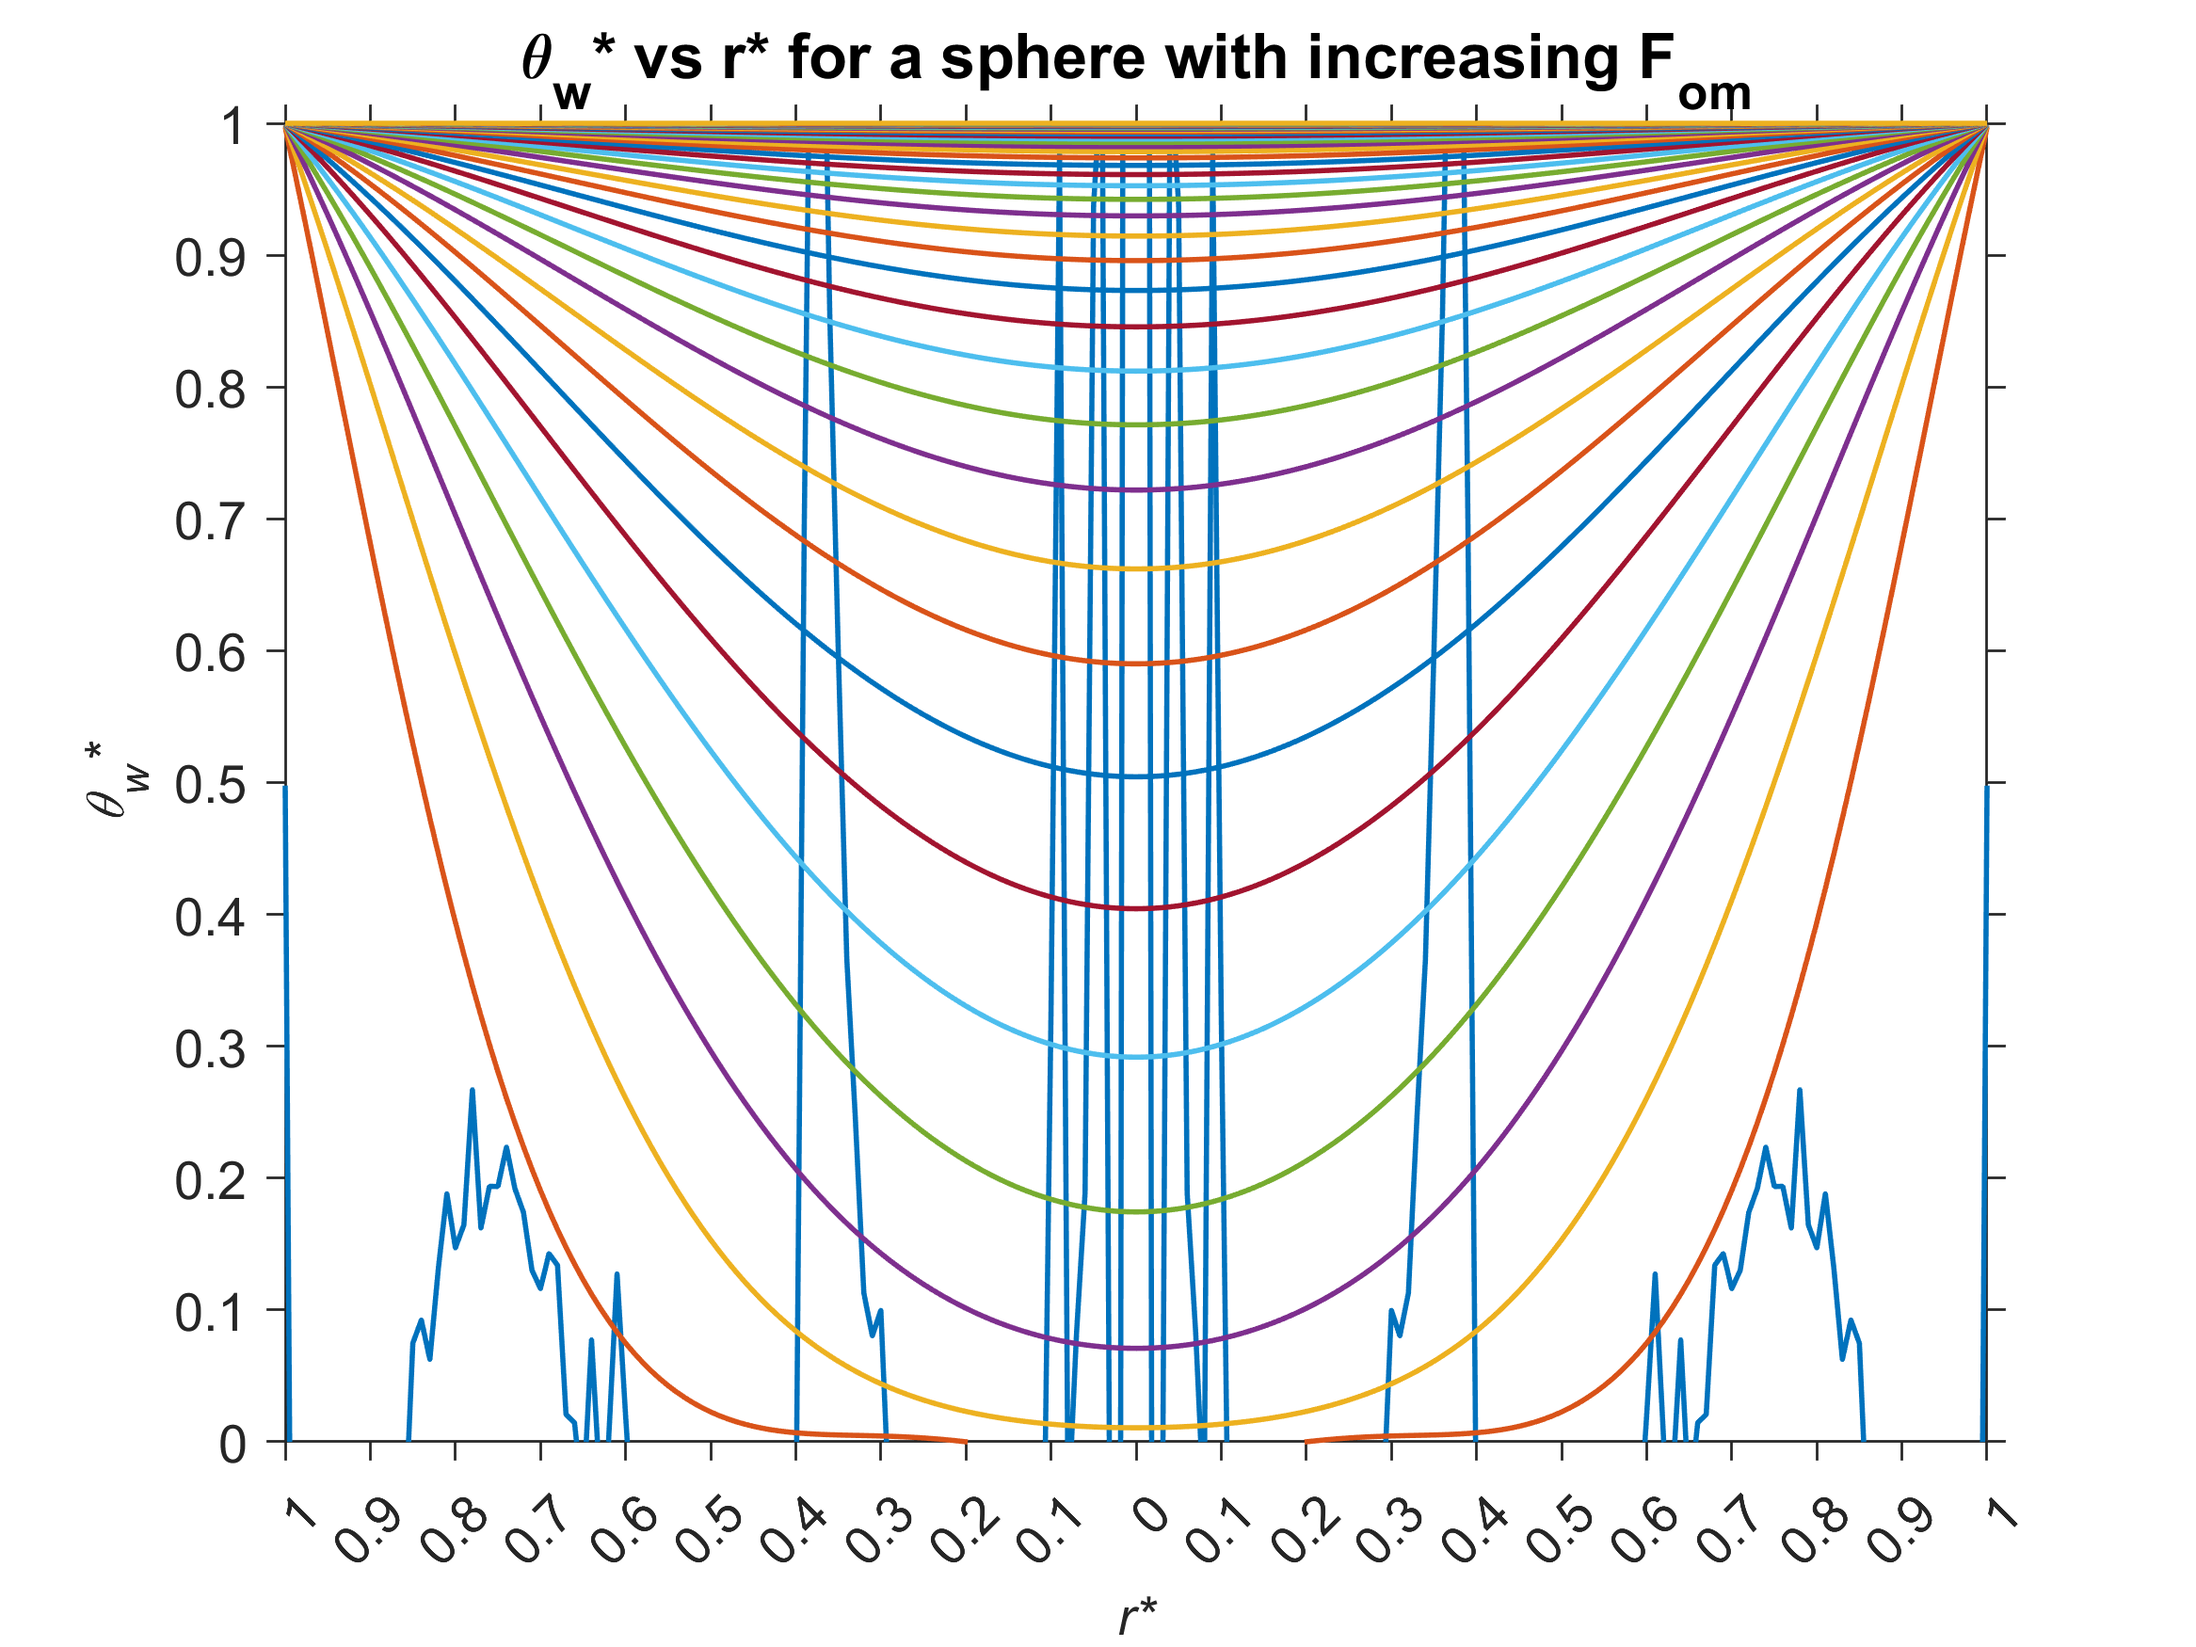
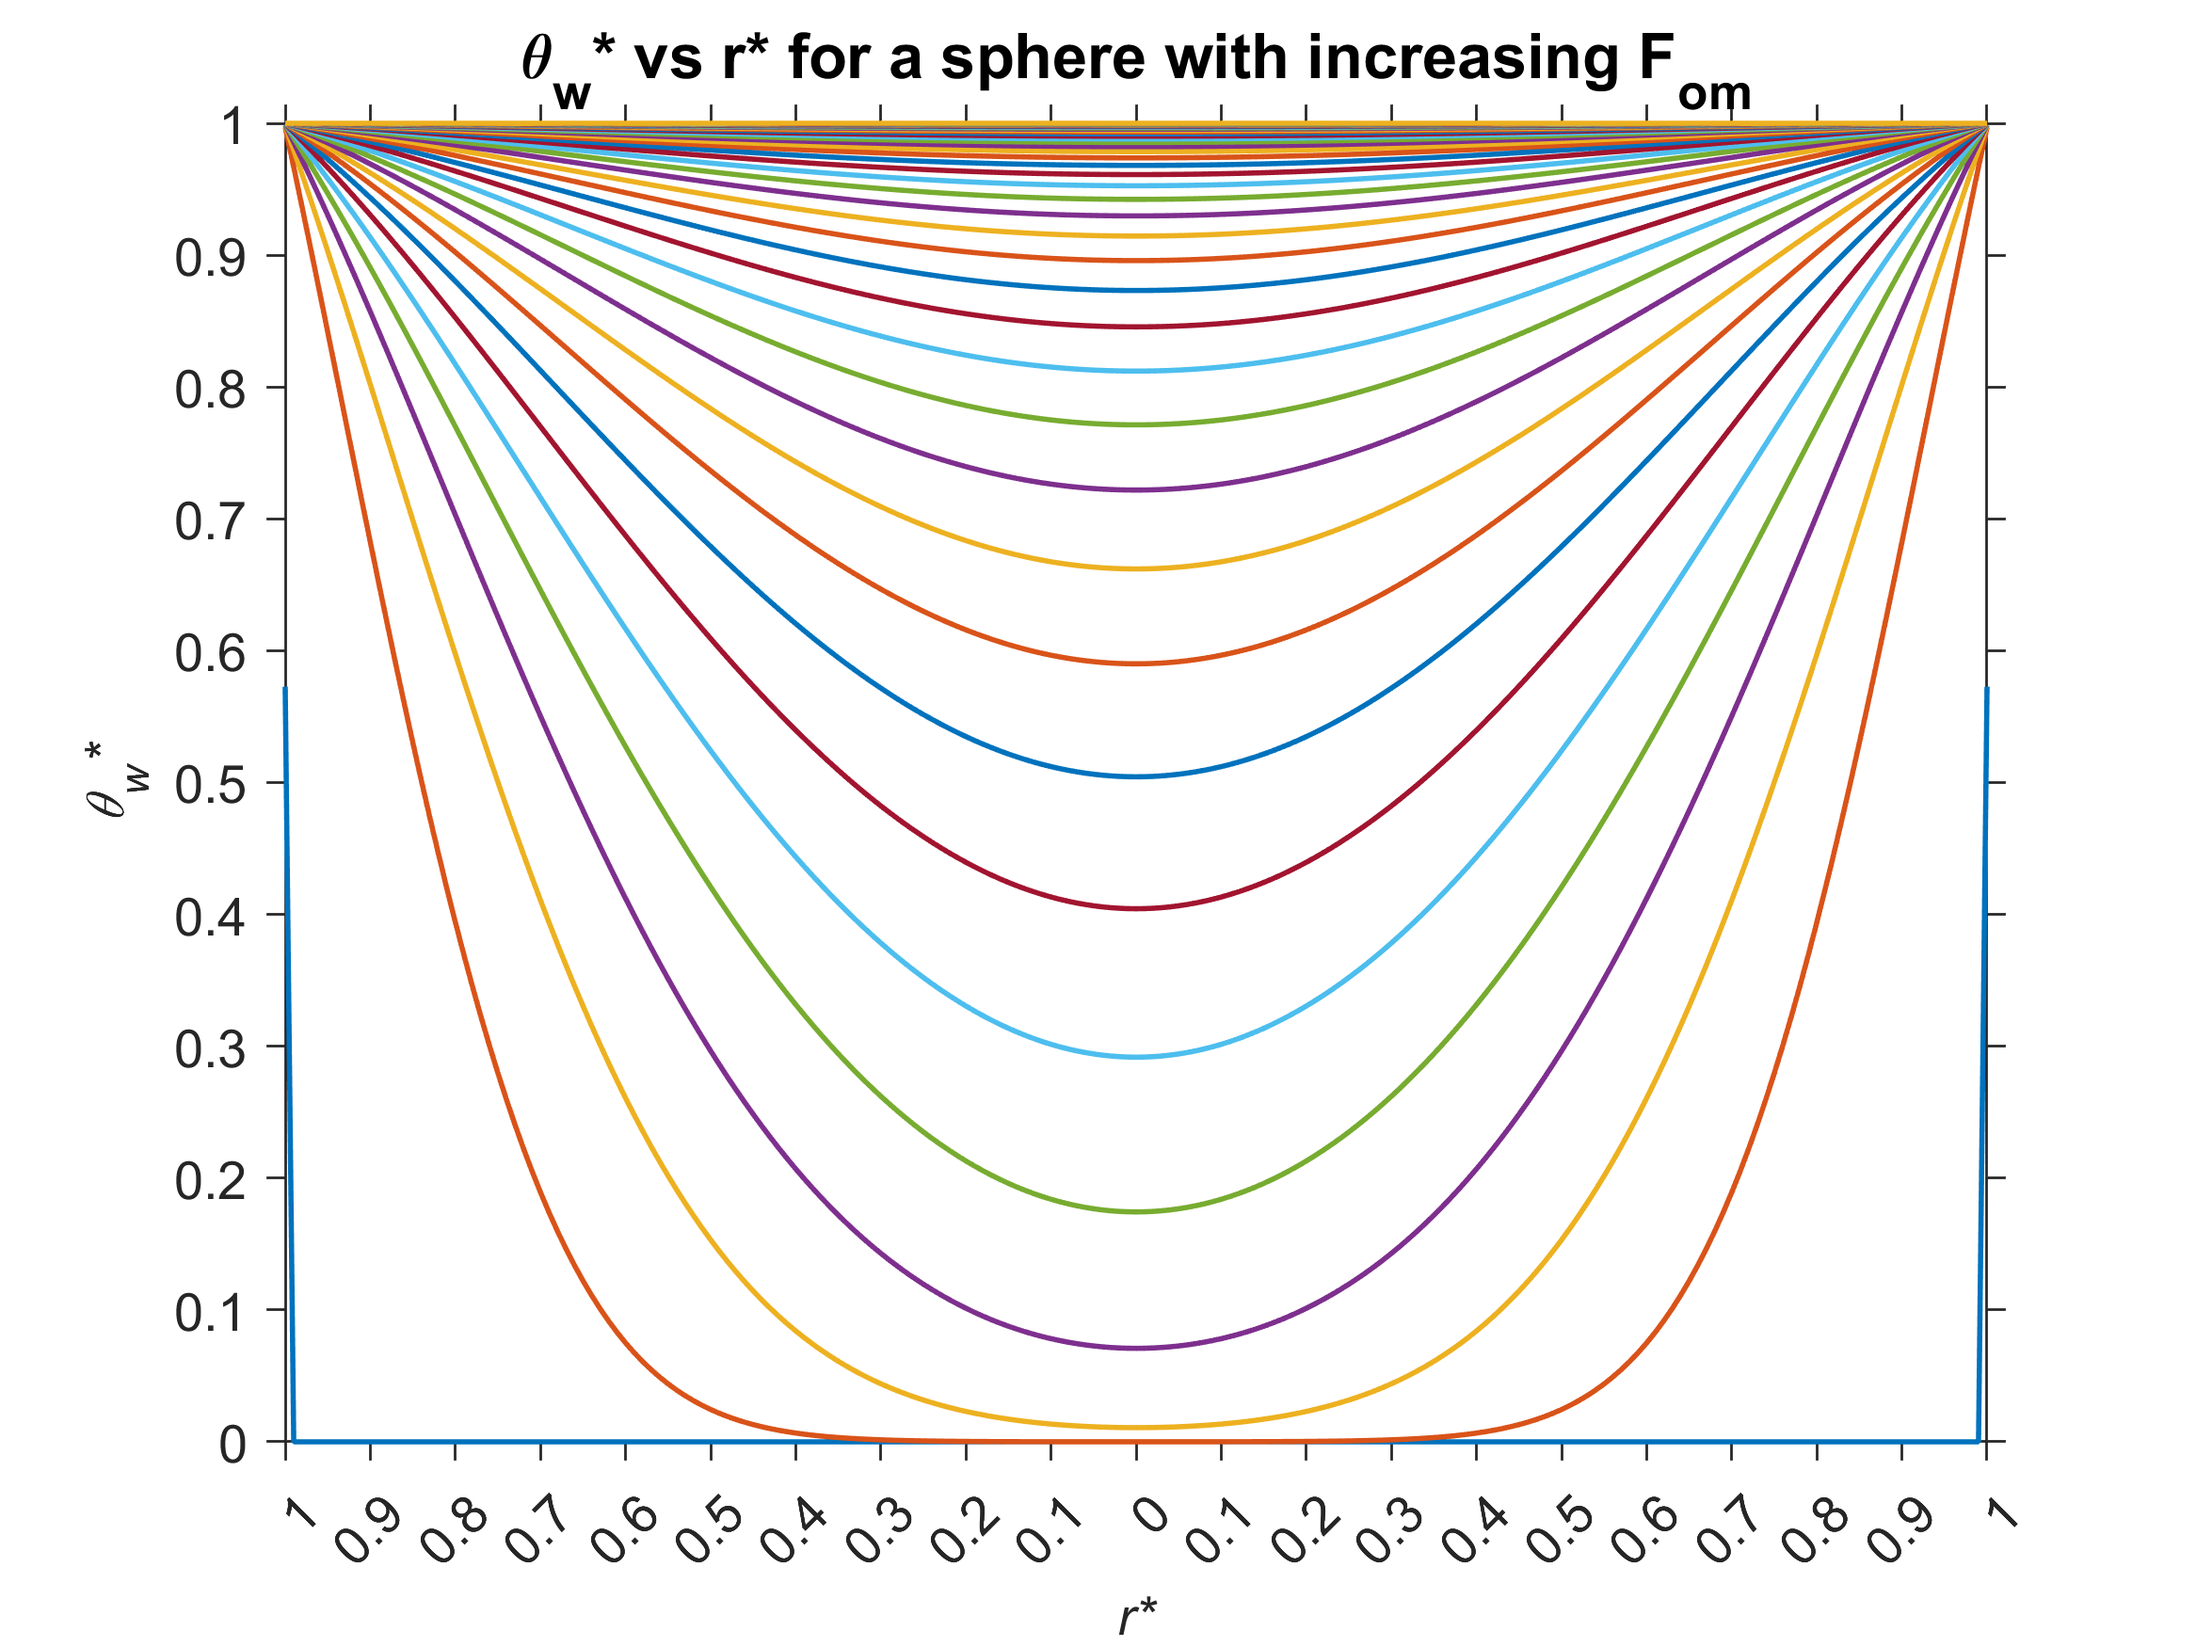
review

diff --git a/Assignments/Assignment 2/main.m b/Assignments/Assignment 2/main.m
@@ -1,4 +1,4 @@
-Bim = [0.01, 0.1, 1, 10, 1000];
+Bim = [1000];
 
 for b = 1:length(Bim)
     clf
@@ -11,10 +11,10 @@ for b = 1:length(Bim)
     Fo = Fr(1):(Fr(2)-Fr(1))/df:Fr(2);
     rs = eps:(1-eps)/dr:1;
     
-    % brent on hygroscopicity
+    % Brent on hygroscopicity
     
     h = @(x)hygro(Bim(b), x);
-    [z, ns] = brent(h, 0, 10000, 1e-2, 1e-12);
+    [z, ns] = brent(h, 0, 10000, 1e-4, 1e-12);
     
     g = Gn(z);
     
@@ -26,9 +26,8 @@ for b = 1:length(Bim)
         end
     end
     
-    % Time it takes for centerline concentration to reach a certain value
     name = strcat('Bim = ', num2str(Bim(b)));
     plotconc(rs, Fo, dr, theta, name)
 end
 
-clf
+% Time it takes for centerline concentration to reach a certain value

diff --git a/Practice/invgjp.m b/Practice/invgjp.m
@@ -1,5 +1,9 @@
 function y = invgjp(j, f)
 
-y = inverse(j) * f;
+a = [j f];
+
+%y = inverse(j) * f;
+
+y = gelim(a);
 
 end
